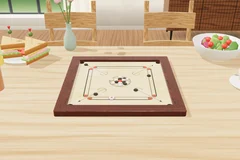
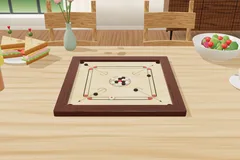
Carrom: three new boards (neon, Rajasthani, Bauhaus), thumbnails
Claude-Session: https://claude.ai/code/session_019p8B6UqeAdsK6vNEgpDiqd

diff --git a/atlas/models/carrom.js b/atlas/models/carrom.js
@@ -1,5 +1,5 @@
 /* =====================================================================
-   Carrom on the 3D table — two boards (Table3D.BOARDS.carrom, chosen in the portal's 盤 row):
+   Carrom on the 3D table — five boards (Table3D.BOARDS.carrom, chosen in the portal's 盤 row):
    · 'classic' the board of every Indian home and club: a honey-coloured birch plywood surface, lacquered and
               powdered, the ICF markings in black with red base circles and a red centre, arrows to the pockets and a rosette in
               the centre circle; a deep rosewood frame with curved inner corners, black netted pockets. Men of boxwood and ebony
@@ -8,6 +8,16 @@
               rosette of overlapping circles, in terracotta, saffron, teal and ink on warm paper, with a fine risograph grain; the
               markings in ink and gold. A matte ink-blue lacquered frame with brass edging and brass-ringed pockets. Men in matte
               ivory and charcoal with a brass pip, a coral queen, a cream striker with a brass ring.
+   · 'neon'      night: a black lacquered board with a faint grid, the markings drawn as glowing tubes (cyan, magenta,
+              violet); a neon tube along the frame's inner edge and round the pockets. Men of acrylic: ice-white and smoked
+              violet with glowing rings, a hot-pink queen, a clear striker with a cyan ring.
+   · 'rajasthan' a painted miniature: a saffron field strewn with little paisleys (buta), a crimson border band with gold dots,
+              a lotus mandala in the centre and lotus fans in the corners, markings in maroon and gold. A dark sheesham frame
+              with brass inlay. Men painted like lacquerware: ivory with a red-dot ring, ebony with gold dots, a vermilion queen
+              with a gold lotus, an ivory striker with a lotus.
+   · 'bauhaus'   geometry in primaries on off-white paper: a red circle, a blue square, a yellow triangle and black bars, the
+              markings in black. A matte black frame with a sharp edge. Men in matte white and black, a red queen, a yellow
+              striker with a black ring.
    Real proportions (ICF laws): surface 74 cm, frame 7 cm, pockets 4.45 cm, men 3.18 cm, striker 4.13 cm.
    Registers into Table3D:
      Table3D.MODELS.carrom(live)   board (+ the opening arrangement and a striker unless live)
@@ -23,7 +33,8 @@
   const SZ = v => Math.round(v * (X.texScale ? X.texScale() : 1));
   const K = 10 / 88, S = 37 * K, FW = 7 * K, FH = 2.2 * K, TOP = .26, RP = 2.225 * K, PC = (37 - 2.225) * K;
   const RM = 1.59 * K, RS = 2.065 * K, HM = .8 * K, HS = .9 * K;
-  const LOOKS = ['classic', 'modern'];
+  const LOOKS = ['classic', 'modern', 'neon', 'rajasthan', 'bauhaus'];
+  const PRE = { classic: '', modern: 'm', neon: 'n', rajasthan: 'r', bauhaus: 'h' };   // the piece-face kinds of each look
   const lin = c => new (T().Color)(c).convertSRGBToLinear();
   function phys(o) {
     const TT = T(), p = Object.assign({}, o);
@@ -39,11 +50,15 @@
   const PAL = {
     classic: { ink: '#16110d', red: '#c3271f', gold: null },
     modern: { ink: '#1d2340', red: '#d0563c', gold: '#b8893a' },
+    neon: { ink: '#3ce6ff', red: '#ff3fb4', gold: '#b47bff', glow: 1.1 },
+    rajasthan: { ink: '#5a1414', red: '#c7262c', gold: '#8a1c1c' },
+    bauhaus: { ink: '#111111', red: '#d6332a', gold: null },
   };
   function markings(g, W, look) {
     const P = PAL[look], u = W / 74, X0 = cm => (cm + 37) * u;
-    const line = (x0, y0, x1, y1, w, c) => { g.strokeStyle = c; g.lineWidth = w * u; g.beginPath(); g.moveTo(X0(x0), X0(y0)); g.lineTo(X0(x1), X0(y1)); g.stroke(); };
-    const circ = (x, y, r, fill, stroke, w) => { g.beginPath(); g.arc(X0(x), X0(y), r * u, 0, Math.PI * 2); if (fill) { g.fillStyle = fill; g.fill(); } if (stroke) { g.strokeStyle = stroke; g.lineWidth = w * u; g.stroke(); } };
+    const glow = c => { if (P.glow) { g.shadowColor = c; g.shadowBlur = P.glow * u; } };
+    const line = (x0, y0, x1, y1, w, c) => { glow(c); g.strokeStyle = c; g.lineWidth = w * u; g.beginPath(); g.moveTo(X0(x0), X0(y0)); g.lineTo(X0(x1), X0(y1)); g.stroke(); };
+    const circ = (x, y, r, fill, stroke, w) => { glow(stroke || fill); g.beginPath(); g.arc(X0(x), X0(y), r * u, 0, Math.PI * 2); if (fill) { g.fillStyle = fill; g.fill(); } if (stroke) { g.strokeStyle = stroke; g.lineWidth = w * u; g.stroke(); } };
     const accent = P.gold || P.ink;
     g.lineCap = 'round';
     for (let side = 0; side < 4; side++) {
@@ -58,23 +73,77 @@
       const d0 = 34.775 * Math.SQRT2 - 2.225 - 5, d1 = d0 - 25.7, ux = sx / Math.SQRT2, uy = sy / Math.SQRT2;
       line(ux * d1, uy * d1, ux * d0, uy * d0, .2, P.ink);
       const hx = ux * d0, hy = uy * d0, px = -uy, py = ux, hl = 1.6, hw = .75;
-      g.fillStyle = P.ink; g.beginPath(); g.moveTo(X0(hx + ux * .4), X0(hy + uy * .4)); g.lineTo(X0(hx - ux * hl + px * hw), X0(hy - uy * hl + py * hw)); g.lineTo(X0(hx - ux * hl - px * hw), X0(hy - uy * hl - py * hw)); g.closePath(); g.fill();
+      glow(P.ink); g.fillStyle = P.ink; g.beginPath(); g.moveTo(X0(hx + ux * .4), X0(hy + uy * .4)); g.lineTo(X0(hx - ux * hl + px * hw), X0(hy - uy * hl + py * hw)); g.lineTo(X0(hx - ux * hl - px * hw), X0(hy - uy * hl - py * hw)); g.closePath(); g.fill();
       const a = Math.atan2(uy, ux); g.strokeStyle = accent; g.lineWidth = .22 * u; g.beginPath(); g.arc(X0(ux * (d1 + 3.18)), X0(uy * (d1 + 3.18)), 3.18 * u, a + Math.PI * .28, a + Math.PI * 1.72, false); g.stroke();
     }
     // the centre: outer circle (17 cm), a rosette, the red centre circle (3.18 cm)
     circ(0, 0, 8.5, null, P.ink, .28);
     g.save(); g.translate(X0(0), X0(0));
-    g.strokeStyle = accent; g.lineWidth = .16 * u;
+    glow(accent); g.strokeStyle = accent; g.lineWidth = .16 * u;
     for (let k = 0; k < 8; k++) { g.rotate(Math.PI / 4); g.beginPath(); g.ellipse(0, -3.9 * u, 1.35 * u, 3.6 * u, 0, 0, Math.PI * 2); g.stroke(); }
     g.restore();
     circ(0, 0, 7.6, null, accent, .14);
     circ(0, 0, 1.59, P.red, P.ink, .16);
+    g.shadowBlur = 0;
   }
   function surfaceTex(look) {
     const W = SZ(2048);
     const t = X.canvasTex('crSurf' + look + W, W, W, (g) => {
-      const N = X.makeNoise(look === 'modern' ? 41 : 17), img = g.createImageData(W, W), d = img.data;
-      if (look === 'classic') {
+      const N = X.makeNoise({ classic: 17, modern: 41, neon: 5, rajasthan: 29, bauhaus: 53 }[look]), img = g.createImageData(W, W), d = img.data;
+      const u = W / 74, X0 = cm => (cm + 37) * u;
+      const paper = (r, gg, b, amp, f) => { for (let y = 0; y < W; y++) for (let x = 0; x < W; x++) { const n = N(x / W * f, y / W * f, 2), i = (y * W + x) * 4; d[i] = r - n * amp; d[i + 1] = gg - n * amp; d[i + 2] = b - n * amp; d[i + 3] = 255; } g.putImageData(img, 0, 0); };
+      const grain = a => { const im = g.getImageData(0, 0, W, W), q = im.data; for (let i = 0; i < q.length; i += 4) { const r = (Math.random() - .5) * a; q[i] += r; q[i + 1] += r; q[i + 2] += r; } g.putImageData(im, 0, 0); };
+      const quad = f => { for (let side = 0; side < 4; side++) { g.save(); g.translate(W / 2, W / 2); g.rotate(side * Math.PI / 2); g.translate(-W / 2, -W / 2); f(side); g.restore(); } };
+      if (look === 'neon') {
+        // black lacquer, a faint blue grid, a violet bloom in the middle and glowing quarter rings behind the pockets
+        paper(12, 13, 26, 8, 30);
+        g.strokeStyle = 'rgba(70,90,200,.16)'; g.lineWidth = .08 * u;
+        for (let c = -36; c <= 36; c += 4) { g.beginPath(); g.moveTo(X0(c), 0); g.lineTo(X0(c), W); g.stroke(); g.beginPath(); g.moveTo(0, X0(c)); g.lineTo(W, X0(c)); g.stroke(); }
+        const rg = g.createRadialGradient(X0(0), X0(0), 0, X0(0), X0(0), 22 * u); rg.addColorStop(0, 'rgba(150,70,255,.32)'); rg.addColorStop(1, 'rgba(150,70,255,0)'); g.fillStyle = rg; g.fillRect(0, 0, W, W);
+        quad(side => {
+          const c = side % 2 ? '#ff3fb4' : '#3ce6ff'; g.shadowColor = c; g.shadowBlur = 1.4 * u; g.strokeStyle = c;
+          for (const [r, w, a] of [[12, .32, .9], [15.5, .16, .55], [19, .1, .35]]) { g.globalAlpha = a; g.lineWidth = w * u; g.beginPath(); g.arc(X0(37), X0(37), r * u, Math.PI * 1.04, Math.PI * 1.46); g.stroke(); }
+          g.globalAlpha = 1; g.shadowBlur = 0;
+        });
+      } else if (look === 'rajasthan') {
+        // saffron paper, little paisleys in rows, a crimson border band with gold dots, a lotus mandala, lotus fans in the corners
+        paper(236, 168, 70, 22, 36);
+        const buta = (x, y, s, a, c) => { g.save(); g.translate(X0(x), X0(y)); g.rotate(a); g.scale(s * u, s * u); g.fillStyle = c; g.beginPath(); g.moveTo(0, 1); g.bezierCurveTo(-1.1, .9, -1.1, -.4, 0, -.9); g.bezierCurveTo(.5, -1.2, .9, -1.5, .7, -1.9); g.bezierCurveTo(1.3, -1.2, 1.1, .8, 0, 1); g.fill(); g.fillStyle = 'rgba(255,240,200,.75)'; g.beginPath(); g.arc(0, .05, .28, 0, 7); g.fill(); g.restore(); };
+        g.globalAlpha = .42;
+        for (let r = 0, y = -30; y <= 30; y += 5, r++) for (let x = -30 + (r % 2) * 2.5; x <= 30; x += 5) if (Math.hypot(x, y) > 10.5) buta(x, y, .85, (r % 2 ? .4 : -.4), r % 3 === 1 ? '#2f6b3a' : '#9e1f27');
+        g.globalAlpha = 1;
+        // the border band (inside the base lines' reach: along the edge)
+        const b0 = 35.6, b1 = 33.3; g.fillStyle = '#a8222b'; g.fillRect(X0(-b0), X0(-b0), (2 * b0) * u, (b0 - b1) * u); g.fillRect(X0(-b0), X0(b1), (2 * b0) * u, (b0 - b1) * u); g.fillRect(X0(-b0), X0(-b0), (b0 - b1) * u, (2 * b0) * u); g.fillRect(X0(b1), X0(-b0), (b0 - b1) * u, (2 * b0) * u);
+        g.fillStyle = '#e6c25a'; for (let t = -34.5; t <= 34.5; t += 1.5) for (const [x, y] of [[t, -(b0 + b1) / 2], [t, (b0 + b1) / 2], [-(b0 + b1) / 2, t], [(b0 + b1) / 2, t]]) { g.beginPath(); g.arc(X0(x), X0(y), .28 * u, 0, 7); g.fill(); }
+        g.strokeStyle = '#c99a2e'; g.lineWidth = .14 * u; g.strokeRect(X0(-b1 + .3), X0(-b1 + .3), (2 * b1 - .6) * u, (2 * b1 - .6) * u);
+        // lotus petals (a ring of n pointed petals between radii r0 and r1)
+        const petals = (cx, cy, n, r0, r1, wd, fill, stroke, a0 = 0, a1 = Math.PI * 2) => {
+          for (let k = 0; k < n; k++) { const a = a0 + (a1 - a0) * (k + .5) / n, ca = Math.cos(a), sa = Math.sin(a), px = -sa, py = ca;
+            g.beginPath(); g.moveTo(X0(cx + ca * r0), X0(cy + sa * r0)); const m = (r0 + r1) / 2;
+            g.quadraticCurveTo(X0(cx + ca * m + px * wd), X0(cy + sa * m + py * wd), X0(cx + ca * r1), X0(cy + sa * r1));
+            g.quadraticCurveTo(X0(cx + ca * m - px * wd), X0(cy + sa * m - py * wd), X0(cx + ca * r0), X0(cy + sa * r0));
+            g.fillStyle = fill; g.fill(); if (stroke) { g.strokeStyle = stroke; g.lineWidth = .12 * u; g.stroke(); } } };
+        g.fillStyle = '#f6dfa8'; g.beginPath(); g.arc(X0(0), X0(0), 8.3 * u, 0, 7); g.fill();
+        petals(0, 0, 16, 3.2, 8.2, 1.25, '#b3262e', '#7a1418');
+        petals(0, 0, 8, 1.6, 5.6, 1.15, '#2f6b3a', '#1c4424', Math.PI / 8, Math.PI * 2 + Math.PI / 8);
+        quad(() => { petals(37, 37, 7, 4.5, 13, 1.6, 'rgba(179,38,46,.85)', '#7a1418', Math.PI, Math.PI * 1.5); petals(37, 37, 5, 4.5, 8.5, 1.1, 'rgba(47,107,58,.85)', '#1c4424', Math.PI, Math.PI * 1.5); });
+        grain(10);
+      } else if (look === 'bauhaus') {
+        // off-white paper; a red circle, a blue square, a yellow triangle, black bars; a small target in the centre
+        paper(240, 235, 222, 10, 44);
+        g.globalCompositeOperation = 'multiply';
+        const sh = (c, a, f) => { g.globalAlpha = a; g.fillStyle = c; g.beginPath(); f(); g.fill(); };
+        sh('#d6332a', .9, () => g.arc(X0(-17), X0(-16), 10.5 * u, 0, 7));
+        sh('#1f4fa3', .88, () => { g.save(); g.translate(X0(17), X0(-17)); g.rotate(.18); g.rect(-8 * u, -8 * u, 16 * u, 16 * u); g.restore(); });
+        sh('#f2c230', .92, () => { g.moveTo(X0(-28), X0(26)); g.lineTo(X0(-6), X0(26)); g.lineTo(X0(-17), X0(7)); g.closePath(); });
+        sh('#1f4fa3', .5, () => g.arc(X0(17), X0(17), 9 * u, Math.PI, Math.PI * 1.5, false) || g.lineTo(X0(17), X0(17)));
+        sh('#d6332a', .85, () => { g.rect(X0(10), X0(19), 16 * u, 3.2 * u); });
+        sh('#111111', .9, () => { g.rect(X0(-31), X0(-3.2), 10 * u, 1.4 * u); g.rect(X0(22), X0(1.8), 9 * u, 1.4 * u); g.rect(X0(-1.4), X0(-31), 1.4 * u, 9 * u); });
+        sh('#f2c230', .9, () => g.arc(X0(0), X0(0), 6 * u, 0, 7));
+        sh('#d6332a', .9, () => g.arc(X0(0), X0(0), 3.2 * u, 0, 7));
+        g.globalCompositeOperation = 'source-over'; g.globalAlpha = 1;
+        grain(8);
+      } else if (look === 'classic') {
         // birch plywood: pale honey, long soft grain along x, a slow colour drift; lacquered (the gloss is the material's)
         for (let y = 0; y < W; y++) for (let x = 0; x < W; x++) {
           const u = x / W, v = y / W, warp = N(u * 1.6, v * 4, 3) * 1.4;
@@ -93,7 +162,6 @@
           d[i] = 239 - n * 14; d[i + 1] = 228 - n * 14; d[i + 2] = 208 - n * 14; d[i + 3] = 255;
         }
         g.putImageData(img, 0, 0);
-        const u = W / 74, X0 = cm => (cm + 37) * u;
         g.globalCompositeOperation = 'multiply';
         const fill = (c, a, f) => { g.globalAlpha = a; g.fillStyle = c; g.beginPath(); f(); g.fill(); };
         // four Mughal arches, one rising from each base line (pointed ogee tops), in the four colours
@@ -128,13 +196,35 @@
     const t = X.canvasTex('crNet', 128, 128, (g, W) => { g.fillStyle = '#0b0b0b'; g.fillRect(0, 0, W, W); g.strokeStyle = '#3a3a3a'; g.lineWidth = 2; for (let i = -W; i < W * 2; i += 12) { g.beginPath(); g.moveTo(i, 0); g.lineTo(i + W, W); g.stroke(); g.beginPath(); g.moveTo(i, W); g.lineTo(i + W, 0); g.stroke(); } }, 2);
     return t;
   }
-  // the piece's face: turned rings (wood men), a star (striker), a brass pip (modern)
+  // the piece's face: turned rings (wood men), a star (striker), a brass pip (modern), glowing rings (neon), painted lotus
+  // and dots (rajasthan), one clean ring (bauhaus)
+  const FACE = { w: '#efe0c0', b: '#2b201a', q: '#c0262a', s: '#f4f1ea', mw: '#ece5d6', mb: '#2c2b2e', mq: '#e1694f', ms: '#efe6d2',
+    nw: '#d8f6ff', nb: '#2a1f48', nq: '#ff4fbd', ns: '#eefcff', rw: '#f1e4c4', rb: '#2a1a12', rq: '#c7262c', rs: '#f3e8cc',
+    hw: '#f2efe6', hb: '#161616', hq: '#d6332a', hs: '#f2c230' };
+  const SIDE = { w: '#e7d3ad', b: '#211813', q: '#a91f22', s: '#ece8de', mw: '#e3dccb', mb: '#26252a', mq: '#d55d45', ms: '#e7dcc5',
+    nw: '#bfeeff', nb: '#3a2a66', nq: '#ff2fa8', ns: '#d9f7ff', rw: '#e6d4ac', rb: '#1f130d', rq: '#a91f22', rs: '#e8d9b4',
+    hw: '#e8e4d8', hb: '#111111', hq: '#c42a22', hs: '#e3b322' };
   function faceTex(kind) {
     const t = X.canvasTex('crFace' + kind, SZ(256), SZ(256), (g, W) => {
-      const c = W / 2, base = { w: '#efe0c0', b: '#2b201a', q: '#c0262a', s: '#f4f1ea', mw: '#ece5d6', mb: '#2c2b2e', mq: '#e1694f', ms: '#efe6d2' }[kind];
+      const c = W / 2, base = FACE[kind];
       g.fillStyle = base; g.fillRect(0, 0, W, W);
-      const N = X.makeNoise(kind.length * 7 + kind.charCodeAt(0));
-      if (kind === 'w' || kind === 'b' || kind === 'q') {   // grain + turned rings
+      const N = X.makeNoise(kind.length * 7 + kind.charCodeAt(0) + (kind.charCodeAt(1) || 0));
+      const ring = (r, w, col, blur) => { g.save(); if (blur) { g.shadowColor = col; g.shadowBlur = W * blur; } g.strokeStyle = col; g.lineWidth = W * w; g.beginPath(); g.arc(c, c, c * r, 0, 7); g.stroke(); g.restore(); };
+      const dotRing = (r, n, rr, col) => { g.fillStyle = col; for (let k = 0; k < n; k++) { const a = k / n * Math.PI * 2; g.beginPath(); g.arc(c + Math.cos(a) * c * r, c + Math.sin(a) * c * r, c * rr, 0, 7); g.fill(); } };
+      const lotus = (n, r0, r1, wd, col) => { g.fillStyle = col; for (let k = 0; k < n; k++) { const a = k / n * Math.PI * 2 - Math.PI / 2, ca = Math.cos(a), sa = Math.sin(a), m = (r0 + r1) / 2; g.beginPath(); g.moveTo(c + ca * c * r0, c + sa * c * r0); g.quadraticCurveTo(c + (ca * m - sa * wd) * c, c + (sa * m + ca * wd) * c, c + ca * c * r1, c + sa * c * r1); g.quadraticCurveTo(c + (ca * m + sa * wd) * c, c + (sa * m - ca * wd) * c, c + ca * c * r0, c + sa * c * r0); g.fill(); } };
+      if (kind[0] === 'n') {   // neon acrylic: a smooth face, glowing rings (the material makes them glow)
+        ring(.8, .05, { nw: '#3ce6ff', nb: '#ff3fb4', nq: '#ffffff', ns: '#3ce6ff' }[kind], .06);
+        ring(.5, .025, { nw: 'rgba(60,230,255,.6)', nb: 'rgba(255,63,180,.6)', nq: 'rgba(255,255,255,.7)', ns: 'rgba(60,230,255,.6)' }[kind], .04);
+        if (kind === 'ns') ring(.18, .05, '#3ce6ff', .05);
+      } else if (kind[0] === 'r') {   // painted like lacquerware
+        if (kind === 'rw') { dotRing(.74, 14, .07, '#b3262e'); g.fillStyle = '#2f6b3a'; lotus(6, .08, .42, .18, '#2f6b3a'); g.fillStyle = '#b3262e'; g.beginPath(); g.arc(c, c, c * .1, 0, 7); g.fill(); }
+        else if (kind === 'rb') { dotRing(.74, 14, .065, '#d9ad45'); lotus(6, .08, .42, .18, '#c99a2e'); }
+        else if (kind === 'rq') { ring(.8, .035, '#e6c25a'); lotus(8, .1, .62, .22, '#e6c25a'); }
+        else { ring(.84, .04, '#b3262e'); lotus(8, .12, .66, .2, '#b3262e'); lotus(8, .1, .4, .14, '#c99a2e'); }
+      } else if (kind[0] === 'h') {   // bauhaus: flat colour, one clean ring
+        ring(.62, .06, { hw: '#111111', hb: '#f0ece2', hq: '#f2c230', hs: '#111111' }[kind]);
+        if (kind === 'hs') { g.fillStyle = '#1f4fa3'; g.beginPath(); g.arc(c, c, c * .24, 0, 7); g.fill(); }
+      } else if (kind === 'w' || kind === 'b' || kind === 'q') {   // grain + turned rings
         const img = g.getImageData(0, 0, W, W), d = img.data;
         for (let y = 0; y < W; y++) for (let x = 0; x < W; x++) { const n = N(x / W * 2, y / W * 9, 2), i = (y * W + x) * 4, k = (n - .5) * (kind === 'w' ? 14 : kind === 'b' ? 12 : 10); /* soft grain: fine contrast shimmered on small men */ d[i] += k; d[i + 1] += k; d[i + 2] += k; }
         g.putImageData(img, 0, 0);
@@ -180,7 +270,7 @@
     const sh = new TT.Shape(); { const r = ro, a = -o, b = o; sh.moveTo(a + r, a); sh.lineTo(b - r, a); sh.quadraticCurveTo(b, a, b, a + r); sh.lineTo(b, b - r); sh.quadraticCurveTo(b, b, b - r, b); sh.lineTo(a + r, b); sh.quadraticCurveTo(a, b, a, b - r); sh.lineTo(a, a + r); sh.quadraticCurveTo(a, a, a + r, a); }
     const hole = new TT.Path(); { const r = ri, a = -S, b = S; hole.moveTo(a + r, a); hole.lineTo(b - r, a); hole.quadraticCurveTo(b, a, b, a + r); hole.lineTo(b, b - r); hole.quadraticCurveTo(b, b, b - r, b); hole.lineTo(a + r, b); hole.quadraticCurveTo(a, b, a, b - r); hole.lineTo(a, a + r); hole.quadraticCurveTo(a, a, a + r, a); }
     sh.holes.push(hole);
-    const bev = look === 'modern' ? .02 : .045;
+    const bev = { modern: .02, bauhaus: .012, neon: .03 }[look] || .045;
     const g = new TT.ExtrudeGeometry(sh, { depth: TOP + FH - bev * 2, bevelEnabled: true, bevelThickness: bev, bevelSize: bev, bevelSegments: LO() ? 2 : 3, curveSegments: LO() ? 4 : 8 });
     g.rotateX(-Math.PI / 2); g.translate(0, bev, 0);
     // UVs along the rails (wood grain runs along each rail)
@@ -203,10 +293,30 @@
   /* ---------- materials ---------- */
   function boardMats(look) {
     const TT = T();
+    if (look === 'neon') return mat('bm' + look, () => {
+      const glowM = c => { const m = phys({ color: '#000000', roughness: .4, metalness: 0 }); m.emissive = lin(c); m.emissiveIntensity = 1.6; return m; };
+      const st = surfaceTex(look), surf = phys({ map: st, color: '#ffffff', roughness: .25, metalness: 0, clearcoat: .9, clearcoatRoughness: .1, envMapIntensity: .5 });
+      surf.emissiveMap = st; surf.emissive = new TT.Color(.75, .75, .75);   // the drawn tubes glow; the black stays black
+      return { surf, frame: phys({ color: '#0b0c14', roughness: .22, metalness: 0, clearcoat: 1, clearcoatRoughness: .08, envMapIntensity: 1 }),
+        edge: glowM('#3ce6ff'), rim: glowM('#ff3fb4'), cup: phys({ color: '#05050a', roughness: .9 }), net: phys({ map: netTex(), color: '#ffffff', roughness: 1 }) };
+    });
+    if (look === 'rajasthan') return mat('bm' + look, () => {
+      const fw = X.wood('crSheesham', '#5a3418', '#1e0e05', SZ(1024), SZ(256), 1.2); fw.wrapS = fw.wrapT = TT.RepeatWrapping;
+      const brass = phys({ color: '#d4a64e', roughness: .28, metalness: 1, envMapIntensity: 1.2 }); brass.emissive = new TT.Color(0x2a1a06);
+      return { surf: phys({ map: surfaceTex(look), color: '#ffffff', roughness: .32, metalness: 0, clearcoat: .7, clearcoatRoughness: .2, envMapIntensity: .75 }),
+        frame: phys({ map: fw, color: '#ffffff', roughness: .32, clearcoat: .8, clearcoatRoughness: .2, envMapIntensity: 1 }),
+        brass, edge: brass, rim: brass, cup: phys({ color: '#0f0b08', roughness: .9 }), net: phys({ map: netTex(), color: '#ffffff', roughness: 1 }) };
+    });
+    if (look === 'bauhaus') return mat('bm' + look, () => ({
+      surf: phys({ map: surfaceTex(look), color: '#ffffff', roughness: .62, metalness: 0, envMapIntensity: .55 }),
+      frame: phys({ color: '#141414', roughness: .55, metalness: 0, envMapIntensity: .6 }),
+      edge: null, rim: null, cup: phys({ color: '#111111', roughness: .9 }), net: phys({ map: netTex(), color: '#ffffff', roughness: 1 }),
+    }));
     if (look === 'modern') return mat('bm' + look, () => ({
       surf: phys({ map: surfaceTex(look), color: '#ffffff', roughness: .5, metalness: 0, clearcoat: .55, clearcoatRoughness: .3, envMapIntensity: .7 }),
       frame: phys({ color: '#1e2544', roughness: .42, metalness: 0, clearcoat: .7, clearcoatRoughness: .35, envMapIntensity: .9 }),
       brass: phys({ color: '#c79a48', roughness: .3, metalness: 1, envMapIntensity: 1.2 }),
+      get edge() { return this.brass; }, get rim() { return this.brass; },
       cup: phys({ color: '#141414', roughness: .9 }),
       net: phys({ map: netTex(), color: '#ffffff', roughness: 1 }),
     }));
@@ -215,18 +325,19 @@
       return {
         surf: phys({ map: surfaceTex(look), color: '#ffffff', roughness: .22, metalness: 0, clearcoat: .9, clearcoatRoughness: .12, envMapIntensity: .85 }),
         frame: phys({ map: fw, color: '#ffffff', roughness: .3, clearcoat: .8, clearcoatRoughness: .18, envMapIntensity: 1 }),
-        brass: null,
+        brass: null, edge: null, rim: null,
         cup: phys({ color: '#0f0d0c', roughness: .9 }),
         net: phys({ map: netTex(), color: '#ffffff', roughness: 1 }),
       };
     });
   }
   function pieceMat(look, c) {
-    const m = look === 'modern' ? 'm' + c : c;
+    const m = (PRE[look] || '') + c;
     return mat('pc' + m, () => {
-      const t = faceTex(m), side = { w: '#e7d3ad', b: '#211813', q: '#a91f22', s: '#ece8de', mw: '#e3dccb', mb: '#26252a', mq: '#d55d45', ms: '#e7dcc5' }[m];
-      const glossy = look === 'classic';
+      const t = faceTex(m), side = SIDE[m];
+      const glossy = look === 'classic' || look === 'rajasthan' || look === 'neon';
       const top = phys({ map: t, color: '#ffffff', roughness: glossy ? (c === 's' ? .3 : .38) : .62, clearcoat: glossy ? .35 : undefined, clearcoatRoughness: glossy ? .35 : undefined, envMapIntensity: glossy ? .85 : .6 });   // (no bump map: on discs this small it sparkled as the camera moved)
+      if (look === 'neon') { top.emissiveMap = t; top.emissive = new (T().Color)(.55, .55, .55); }   // acrylic lit from inside: the rings glow, the smoked men stay dark
       return { top, side: phys({ color: side, roughness: glossy ? .34 : .6, clearcoat: glossy ? .5 : undefined, clearcoatRoughness: glossy ? .25 : undefined, envMapIntensity: glossy ? .9 : .55 }) };
     });
   }
@@ -253,10 +364,10 @@
     for (const [sx, sz] of [[-1, -1], [1, -1], [-1, 1], [1, 1]]) {
       const cup = new TT.Mesh(cupG, new TT.MeshStandardMaterial({ color: 0x0c0b0a, roughness: 1, side: TT.BackSide })); cup.position.set(sx * PC, (TOP + .05) / 2, sz * PC); g.add(cup);
       const net = new TT.Mesh(netG, BM.net); net.position.set(sx * PC, .07, sz * PC); g.add(net);
-      if (BM.brass) { const rg = geos.prim || (geos.prim = (() => { const q = new TT.TorusGeometry(RP + .012, .014, 6, LO() ? 20 : 36); q.rotateX(Math.PI / 2); if (X.share) X.share(q); return q; })()); const rim = new TT.Mesh(rg, BM.brass); rim.position.set(sx * PC, TOP + .004, sz * PC); g.add(rim); }
+      if (BM.rim) { const rg = geos.prim || (geos.prim = (() => { const q = new TT.TorusGeometry(RP + .012, .014, 6, LO() ? 20 : 36); q.rotateX(Math.PI / 2); if (X.share) X.share(q); return q; })()); const rim = new TT.Mesh(rg, BM.rim); rim.position.set(sx * PC, TOP + .004, sz * PC); g.add(rim); }
     }
-    if (BM.brass) {   // brass edging along the frame's top inner edge
-      const e = new TT.Mesh(new TT.BoxGeometry(2 * (S + FW) - .02, .012, .03), BM.brass);
+    if (BM.edge) {   // brass edging (a neon tube on the night board) along the frame's top outer edge
+      const e = new TT.Mesh(new TT.BoxGeometry(2 * (S + FW) - .02, .012, .03), BM.edge);
       for (const [x, z, ry] of [[0, -(S + FW) + .03, 0], [0, S + FW - .03, 0], [-(S + FW) + .03, 0, Math.PI / 2], [S + FW - .03, 0, Math.PI / 2]]) { const m = e.clone(); m.position.set(x, TOP + FH + .006, z); m.rotation.y = ry; g.add(m); }
     }
     const U = g.userData;

diff --git a/atlas/tables3d.js b/atlas/tables3d.js
@@ -133,6 +133,9 @@
     // carrom (the 盤 names)
     classic: { ja: 'クラシック 3D', en: 'Classic 3D', zh: '经典 3D', ko: '클래식 3D', es: 'Clásico 3D', fr: 'Classique 3D', pt: 'Clássico 3D', de: 'Klassisch 3D', hi: 'क्लासिक 3D', ar: 'كلاسيكي ثلاثي', ru: 'Классическая 3D', 'zh-TW': '經典3D', id: '3D klasik', tr: 'Klasik 3D' },
     modern: { ja: 'モダンアート 3D', en: 'Modern art 3D', zh: '现代艺术 3D', ko: '모던 아트 3D', es: 'Arte moderno 3D', fr: 'Art moderne 3D', pt: 'Arte moderna 3D', de: 'Moderne Kunst 3D', hi: 'मॉडर्न आर्ट 3D', ar: 'فن حديث ثلاثي', ru: 'Современное искусство 3D', 'zh-TW': '現代藝術3D', id: '3D seni modern', tr: 'Modern sanat 3D' },
+    neon: { ja: 'ネオン 3D', en: 'Neon 3D', zh: '霓虹 3D', ko: '네온 3D', es: 'Neón 3D', fr: 'Néon 3D', pt: 'Neon 3D', de: 'Neon 3D', hi: 'नियॉन 3D', ar: 'نيون ثلاثي', ru: 'Неон 3D', 'zh-TW': '霓虹 3D', id: '3D neon', tr: 'Neon 3D' },
+    rajasthan: { ja: 'ラジャスタン 3D', en: 'Rajasthani 3D', zh: '拉贾斯坦 3D', ko: '라자스탄 3D', es: 'Rajastán 3D', fr: 'Rajasthan 3D', pt: 'Rajastão 3D', de: 'Rajasthan 3D', hi: 'राजस्थानी 3D', ar: 'راجستان ثلاثي', ru: 'Раджастхан 3D', 'zh-TW': '拉賈斯坦 3D', id: '3D Rajasthan', tr: 'Racastan 3D' },
+    bauhaus: { ja: 'バウハウス 3D', en: 'Bauhaus 3D', zh: '包豪斯 3D', ko: '바우하우스 3D', es: 'Bauhaus 3D', fr: 'Bauhaus 3D', pt: 'Bauhaus 3D', de: 'Bauhaus 3D', hi: 'बाउहाउस 3D', ar: 'باوهاوس ثلاثي', ru: 'Баухаус 3D', 'zh-TW': '包浩斯 3D', id: '3D Bauhaus', tr: 'Bauhaus 3D' },
   };
   const BOARDS = {
     // atlas/skin/chess.js: 'atlas-chess-pc' = the piece set ('1' lux · 'wood' · '0' the 2D pieces), '-bd' = the board's wood
@@ -156,12 +159,12 @@
       get: () => { try { const d = (JSON.parse(ls.get('aicoding-senet') || '{}').settings || {}).design; return ['faience', 'papyrus', 'night'].includes(d) ? d : 'tut'; } catch (e) { return 'tut'; } },
       set: k => { try { const o = JSON.parse(ls.get('aicoding-senet') || '{}') || {}; o.settings = o.settings || {}; o.settings.design = k; ls.set('aicoding-senet', JSON.stringify(o)); } catch (e) {} } },
     konane: { list: ['papamu', 'quilt'], get: () => ls.get('atlas-konane-look') === 'quilt' ? 'quilt' : 'papamu', set: k => ls.set('atlas-konane-look', k) },
-    // carrom (3D only): 'atlas-carrom-look' ('modern' the default | 'classic')
-    carrom: { list: ['modern', 'classic'], get: () => ls.get('atlas-carrom-look') === 'classic' ? 'classic' : 'modern', set: k => ls.set('atlas-carrom-look', k) },
+    // carrom (3D only): 'atlas-carrom-look' ('modern' the default | 'classic' | 'neon' | 'rajasthan' | 'bauhaus')
+    carrom: { list: ['modern', 'classic', 'neon', 'rajasthan', 'bauhaus'], get: () => { const v = ls.get('atlas-carrom-look'); return ['classic', 'neon', 'rajasthan', 'bauhaus'].includes(v) ? v : 'modern'; }, set: k => ls.set('atlas-carrom-look', k) },
   };
   X.BOARDS = BOARDS;
   X.boardName = (k, lang) => { const o = N3[k]; return o ? o[lang] || o.en : k; };
-  X.boardThumb = (id, k) => new URL('img/board-' + id + '-' + k + '.webp?v=' + (id === 'senet' ? 3 : id === 'konane' ? 2 : 1), ME).href;
+  X.boardThumb = (id, k) => new URL('img/board-' + id + '-' + k + '.webp?v=' + (id === 'senet' ? 3 : id === 'konane' || id === 'carrom' ? 2 : 1), ME).href;
   // choose a board for a game: the shared key is written and the showcase board (if it is that game's) is rebuilt at once
   X.setBoard = (id, k) => { const B = BOARDS[id]; if (!B || !B.list.includes(k)) return; B.set(k); try { dispatchEvent(new CustomEvent('atlas-board', { detail: { id, look: k } })); } catch (e) {} };
   PLACES.ui.board = { ja: '盤', en: 'Board', zh: '棋盘', ko: '판', es: 'Tablero', fr: 'Plateau', pt: 'Tabuleiro', de: 'Brett', hi: 'बोर्ड', ar: 'اللوحة', ru: 'Доска', 'zh-TW': '棋盤', id: 'Papan', tr: 'Tahta' };

diff --git a/atlas/index.html b/atlas/index.html
@@ -1613,7 +1613,7 @@ html:has(#bv.on,#hist.on,#ov.on,.lvsheet) :is(.updline,#gsSeg),.updline[hidden],
 <script src="i18n.js?v=58n"></script>
 <script src="gamelist-i18n.js?v=10n"></script>
 <script src="table3d.js?v=124"></script>
-<script src="tables3d.js?v=31"></script>
+<script src="tables3d.js?v=32"></script>
 <script src="models/shogi.js?v=23"></script>
 <script src="models/chess.js?v=14"></script>
 <script src="models/backgammon.js?v=118"></script>
@@ -1639,7 +1639,7 @@ html:has(#bv.on,#hist.on,#ov.on,.lvsheet) :is(.updline,#gsSeg),.updline[hidden],
 <script src="../ludo/board2d.js?v=1"></script>
 <script src="models/ludo.js?v=4"></script>
 <script src="../carrom/engine.js?v=1"></script>
-<script src="models/carrom.js?v=4"></script>
+<script src="models/carrom.js?v=5"></script>
 <script src="models/cardtables.js?v=4"></script>
 <script src="icons3d.js?v=34"></script>
 <script src="games/reversi.js?v=30"></script>

diff --git a/claude/carrom-spec.md b/claude/carrom-spec.md
@@ -7,7 +7,7 @@
 |---|---|
 | `carrom/engine.js` | ルール・物理・AI（DOMなし。ポータル・ルールコース・ワーカーで共用） |
 | `carrom/worker.js` | AIの思考（`CarromEngine.think` をワーカーで） |
-| `atlas/models/carrom.js` | 3D盤2種（モダンアート `modern`＝既定・王道 `classic`）と駒・クイーン・ストライカー |
+| `atlas/models/carrom.js` | 3D盤5種（モダンアート `modern`＝既定・クラシック `classic`・ネオン `neon`・ラジャスタン `rajasthan`・バウハウス `bauhaus`）と駒・クイーン・ストライカー。盤ごとに駒の顔も変わる（`PRE`／`FACE`／`SIDE`） |
 | `atlas/games/carrom.js` | 3D卓での対局（`Atlas3D.carrom`） |
 | `atlas/rules/carrom.js` | ルールコース（案内役：カワウソのオットー、`images/atlas/av/otter-1.webp`） |
 | `atlas/historia/s/carrom.json`・`atlas/historia/<lang>/carrom.json` | ヒストリア（14言語）。図は historia.js の `carrom` 型 |
@@ -46,7 +46,9 @@
 - 盤面反転：画面左下の丸ボタン（と F キー）で盤を180°回す（アニメーション、`atlas-flip-carrom` に記憶）。2人対戦の手番での回転に重ねる。反転中は自分のベースラインが画面の上になり、引く向きは盤の上で「的から離れる向き」のまま（画面では上へ引く）。対局が終わったら隠す。
 - カメラ：既定は斜めから見下ろす視点（pitch 0.82、パースあり）。反転ボタンの右の丸ボタンで「上から見る」（ほぼ真上、縦長1.36／横長1.3）と切り替え（`atlas-carrom-view`=`top`/`angle` に記憶）。
 - 描画：ウィンドウが前面にない（blur）・タブが隠れている間は、ストライカーの輪の点滅を止めて描画を止める（共通ルールのオンデマンド描画）。
-- 盤の名前：王道の盤は「クラシック 3D」（`N3.classic`）。
+- 盤の名前：「モダンアート 3D」「クラシック 3D」「ネオン 3D」「ラジャスタン 3D」「バウハウス 3D」（`N3`、14言語）。選択は `atlas-carrom-look`、盤のサムネイルは `atlas/img/board-carrom-<look>.webp`（tools/boards.html で撮る）。
+- 盤の中身：ネオン＝黒漆に光る線（表面の emissiveMap）、枠の内縁とポケットに光る管、アクリル風の駒（顔が光る）。ラジャスタン＝サフランの地に小さなペイズリー、赤い縁取り帯と金の点、中央に蓮の曼荼羅、四隅に蓮の扇、シーシャム材の枠に真鍮。バウハウス＝生成りの紙に赤い円・青い正方形・黄色い三角・黒い棒、マットな黒枠。
+- クラシックの枠：木目は各辺1枚で貼る（繰り返しの継ぎ目を出さない）。
 - 待った（AI戦：自分の前の手番まで）・ヒント（Lv.20の手：ストライカーを置いて、狙いを桃色の点線で表示、強さを％で）・投了。2人対戦は手番の側が手前に来るよう盤が回る。
 - 操作の説明は最初の手番に大きなカード（`HOWTO`、14言語、端末に合わせてマウス用／タッチ用の4手順）で出す。「もう表示しない」にチェックして閉じると以後出さない（localStorage `atlas-carrom-howto`=`off`）。カードには「操作はルールからいつでも見られる」案内。カードが出ている間は打てない。ブレイクの声かけはカードを閉じた後のトースト（「ブレイク！」の後で改行）。お知らせ（トースト）は白地に濃い文字、縁取りの色で種類（ふつう＝テーマ色・成功＝緑・反則＝赤）。
 
